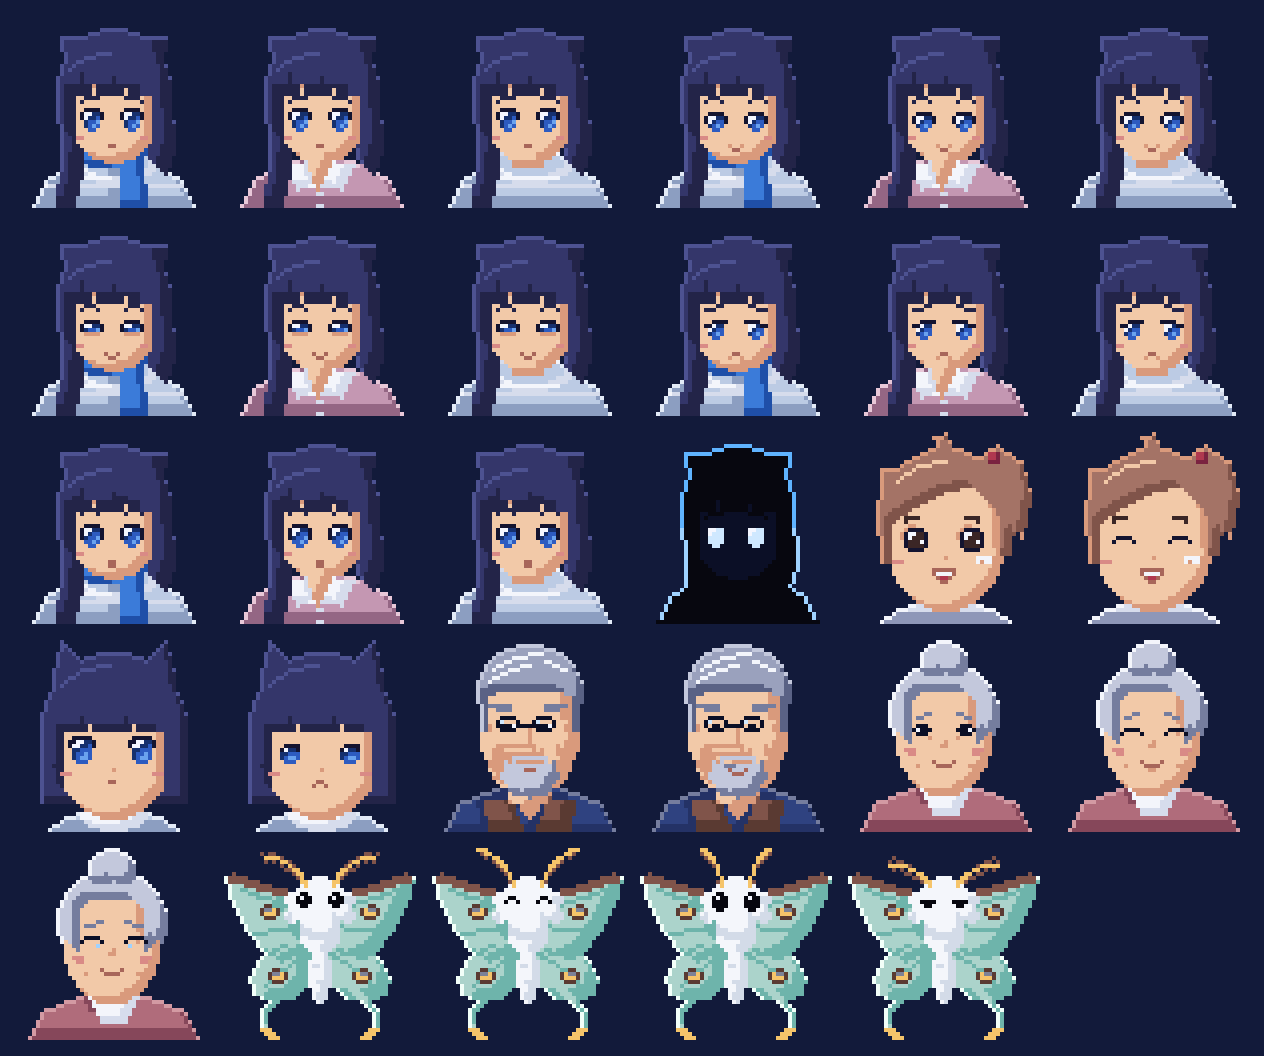
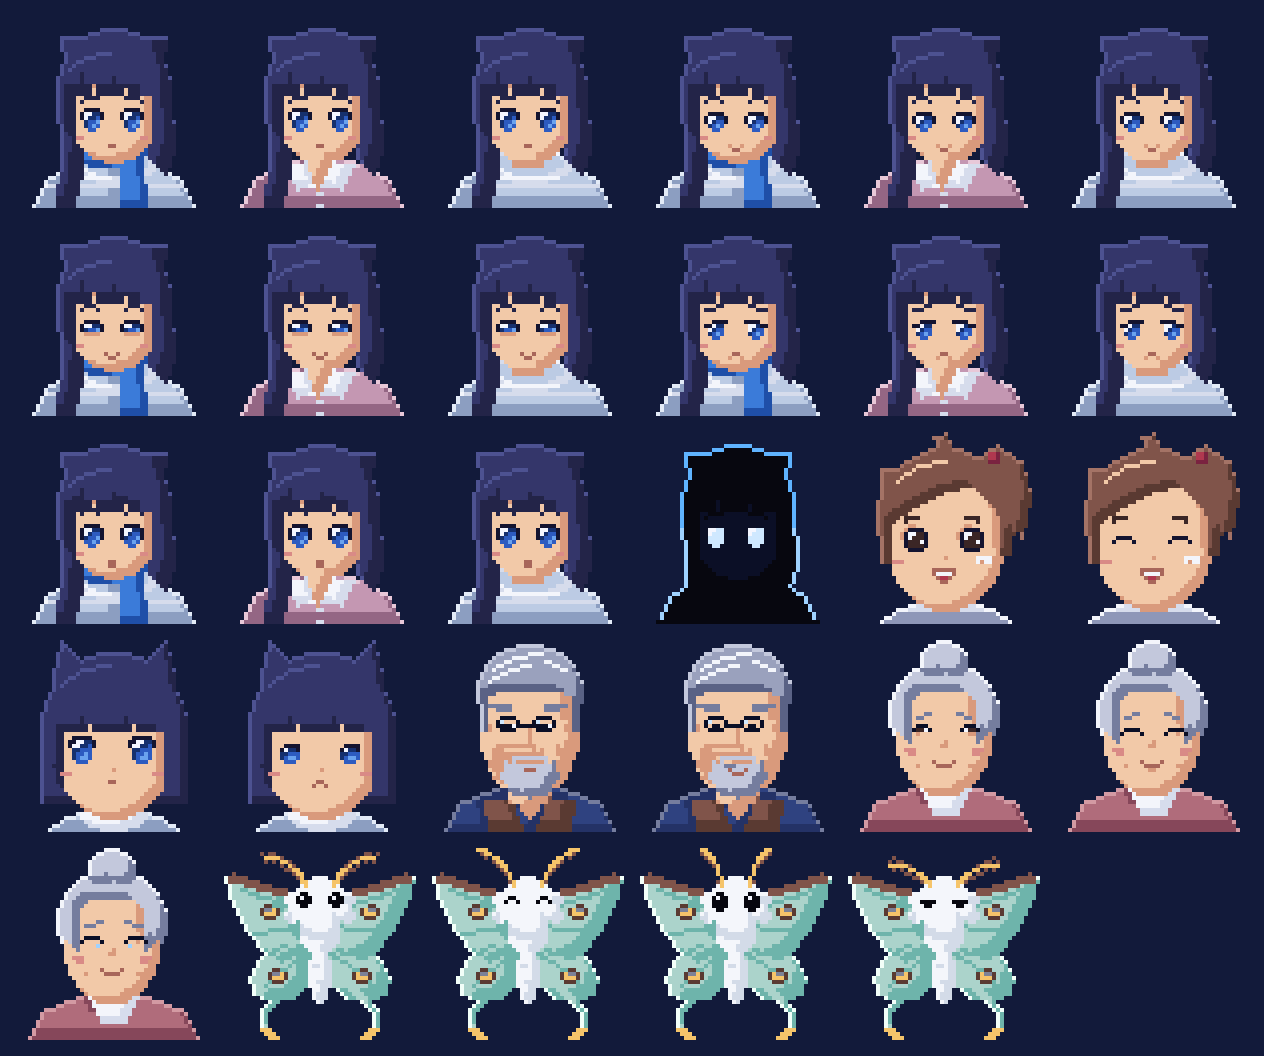
ハルのふつうの目をやさしく・8 歳のミオの横顔と左ほおを直す
- ハル（顔グラフィック）：黒目の大きい丸い目が怖かった（ユーザーの指摘）。小さな黒目にまぶたをかぶせ、目じりを下げた
- 8 歳のミオ（立ち絵）：横向きの頭が薄っぺらだったので、後ろ頭まで丸くし、ポニーテールは後ろ頭から下げた
- 左ほおが白く見えた：髪のふちの月明かりが肌色だったため。髪の色を栗色にして、ふちも茶色に。顔の横に髪を足した
- 確認：Unity でハルとの会話（会話ウィンドウごと）と回想を撮って確かめた。パレットの外の色は 0

Changed region(s): [[0.6788, 0.4062, 0.9873, 0.5312], [0.7405, 0.6875, 0.7714, 0.7188]]

diff --git a/Tools/Art/kids.py b/Tools/Art/kids.py
@@ -23,7 +23,7 @@ from palette import hex_to_rgba, RAMPS
 STYLE = Style("none", rim=True)
 MATS = {
     "H": Mat("hair2", "hair1", "hair3", group="Hh", d=2),
-    "M": Mat("brown3", "brown2", "skin1", group="Mg", d=2),
+    "M": Mat("brown2", "brown1", "brown3", group="Mg", d=2),   # ふちの月明かりも茶色に（肌色だと、ほおが白く見えた）
     "S": Mat("skin2", "skin1", group="SEeIrmOW"),
     "P": Mat("pj2", "pj1", "pj3", group="P", d=2),
     "T": Mat("tee2", "tee1", "tee3", group="T", d=2),
@@ -105,8 +105,8 @@ MIO_HEAD_DOWN = [
     ".MSOeSSSOeSM",
     ".MSOOSSSOOSM",
     ".MSrSSSSSrSM",
-    "..SSSmWWmSS.",   # 歯を見せて笑う
-    "..SSSSmmSSS.",
+    ".MSSSmWWmSSM",   # 歯を見せて笑う。顔の横の髪（ほおのふちが月明かりで白く光らないように）
+    "..MSSSmmSSM.",
     "...SSSSSSS..",
 ]
 MIO_BODY_DOWN = [
@@ -122,19 +122,19 @@ MIO_LEGS_STAND = [
     "............",
     "............",
 ]
-MIO_HEAD_SIDE = [
+MIO_HEAD_SIDE = [   # 後ろ頭まで丸く（ユーザーの指摘：横向きの頭が薄っぺら）。ポニーテールは後ろ頭から下がる
     "....M.......",
     "...MMMMMM...",
-    "..MggMMMMM..",
-    "MMMMMMMMMMM.",   # ポニーテールが後ろへなびく
-    "MMMMMMMMSSM.",
-    "M..MMMMSSSS.",
-    "...MMMMSSSS.",
-    "...MMMSSOeS.",
-    "...MMMSSOOS.",
-    "...MMMSrSSS.",
-    "...MMMSSmWS.",
-    "....MMSSSS..",
+    "..MggMMMMMM.",
+    ".RMMMMMMMMMM",   # 後ろ頭の赤い髪ゴム
+    "MMMMMMMMMSSS",
+    "MMMMMMMMSSSS",
+    "MMMMMMMMSOeS",
+    "MMMMMMMMSOOS",
+    "M.MMMMMSrSSS",
+    "..MMMMMSSmWS",
+    "..MMMMMSSSS.",
+    "...MMMSSSS..",
     ".....SSSS...",
 ]
 MIO_BODY_SIDE = [

diff --git a/Tools/Art/townsfolk.py b/Tools/Art/townsfolk.py
@@ -201,13 +201,14 @@ SHOULDERS = [(3, 47), (7, 40), (15, 37), (33, 37), (41, 40), (45, 47)]
 HARU_FACE_MATS = {
     "J": Mat("stone7", "stone5", "tee3", group="J", d=2),
     "H": Mat("stone7", "stone5", "tee3", d=2),
-    "S": Mat("skin2", "skin1", group="SEeLmnrq", d=2),
+    "S": Mat("skin2", "skin1", group="SEeILmnrq", d=2),
     "C": Mat("rose2", "rose1", "rose3", d=3),
     "w": Mat("tee3", "tee2", group="w", d=2),
 }
-HARU_FACE_DIRECT = {"E": "night1", "e": "moon3", "L": "moon1", "m": "skin0", "n": "skin1", "r": "blush0", "q": "stone5"}
+HARU_FACE_DIRECT = {"E": "night1", "I": "brown0", "e": "moon3", "L": "moon1", "m": "skin0", "n": "skin1", "r": "blush0", "q": "stone5"}
 HARU_EYES = {   # (左, 右)。やさしい目：目じりが下がり、黒目がちで、上のまぶたは丸い
-    "normal": ([".EEE.", "EeEEE", ".EEE.", "....n"], [".EEE.", "EEEeE", ".EEE.", "n...."]),
+    # v0.19：黒目の大きい丸い目は「怖い」（ユーザーの指摘）。小さな黒目にまぶたをかぶせ、目じりを下げる
+    "normal": ([".EEE..", "EIIeE.", ".n...."], ["..EEE.", ".EeIIE", "....n."]),
     "smile": (["......", ".EEEE.", "E....E", "......"], ["......", ".EEEE.", "E....E", "......"]),     # 目を細めて笑う
     "teary": (["......", ".EEEE.", "E....E", "....L."], ["......", ".EEEE.", "E....E", ".L...."]),   # 笑いながら涙
 }

diff --git a/Tools/Art/report/pixel_report.md b/Tools/Art/report/pixel_report.md
@@ -24,22 +24,22 @@
 | Characters/Grandma/grandma_sit_1.png | 17 |  | 0 | 0/0 | 4 | 8.2 | 0.0 |  | v0.16（輪郭線なし）：目・ほお・口・組んだ手は形の細部。光の向き（茶）：杖は体の右側（影の側）なので暗い色の 1 ドットの線 |
 | Characters/Keeper/keeper_idle_0.png | 19 |  | 0 | 3/13 | 6 | 3.4 | 0.0 | night | v0.16（輪郭線なし）：めがね・口ひげ・頭のつやは形の細部。光の向き：縁の月明かりは左の縁に縦に並び、影は右下にかたまるので、系統の重心では逆に見える（部品ごとに左上の光を確認済み） |
 | Characters/Keeper/keeper_idle_1.png | 19 |  | 0 | 4/17 | 5 | 3.4 | 0.0 | night | v0.16（輪郭線なし）：めがね・口ひげ・頭のつやは形の細部。光の向き：縁の月明かりは左の縁に縦に並び、影は右下にかたまるので、系統の重心では逆に見える（部品ごとに左上の光を確認済み） |
-| Characters/Kids/kid_mio_idle_down_0.png | 18 |  | 0 | 4/15 | 5 | 7.8 | 0.0 |  |  |
-| Characters/Kids/kid_mio_idle_down_1.png | 18 |  | 0 | 4/15 | 5 | 7.8 | 0.0 |  |  |
+| Characters/Kids/kid_mio_idle_down_0.png | 18 |  | 0 | 4/19 | 5 | 8.3 | 0.0 |  |  |
+| Characters/Kids/kid_mio_idle_down_1.png | 18 |  | 0 | 4/19 | 5 | 8.3 | 0.0 |  |  |
 | Characters/Kids/kid_mio_idle_down_shadow_0.png | 1 |  | 0 | 0/0 | 0 | 0.0 | 0.0 |  |  |
 | Characters/Kids/kid_mio_idle_down_shadow_1.png | 1 |  | 0 | 0/0 | 0 | 0.0 | 0.0 |  |  |
-| Characters/Kids/kid_mio_run_left_0.png | 18 |  | 0 | 1/6 | 2 | 9.2 | 0.0 | brown |  |
-| Characters/Kids/kid_mio_run_left_1.png | 18 |  | 0 | 1/6 | 2 | 10.0 | 0.0 | brown |  |
-| Characters/Kids/kid_mio_run_left_2.png | 17 |  | 0 | 1/6 | 3 | 10.7 | 0.0 | brown |  |
-| Characters/Kids/kid_mio_run_left_3.png | 18 |  | 0 | 1/6 | 2 | 10.7 | 0.0 | brown |  |
+| Characters/Kids/kid_mio_run_left_0.png | 18 |  | 0 | 1/4 | 0 | 8.0 | 0.0 | brown |  |
+| Characters/Kids/kid_mio_run_left_1.png | 18 |  | 0 | 1/4 | 0 | 8.8 | 0.0 | brown |  |
+| Characters/Kids/kid_mio_run_left_2.png | 17 |  | 0 | 1/4 | 1 | 9.4 | 0.0 | brown |  |
+| Characters/Kids/kid_mio_run_left_3.png | 18 |  | 0 | 1/4 | 0 | 9.4 | 0.0 | brown |  |
 | Characters/Kids/kid_mio_run_left_shadow_0.png | 1 |  | 2 | 0/0 | 0 | 0.0 | 0.0 |  |  |
 | Characters/Kids/kid_mio_run_left_shadow_1.png | 1 |  | 2 | 0/0 | 0 | 0.0 | 0.0 |  |  |
 | Characters/Kids/kid_mio_run_left_shadow_2.png | 1 |  | 0 | 0/0 | 0 | 0.0 | 0.0 |  |  |
 | Characters/Kids/kid_mio_run_left_shadow_3.png | 1 |  | 2 | 0/0 | 0 | 0.0 | 0.0 |  |  |
-| Characters/Kids/kid_mio_run_right_0.png | 18 |  | 0 | 0/0 | 1 | 7.0 | 0.0 | skin |  |
-| Characters/Kids/kid_mio_run_right_1.png | 18 |  | 0 | 0/0 | 1 | 7.9 | 0.0 | skin |  |
-| Characters/Kids/kid_mio_run_right_2.png | 17 |  | 0 | 0/0 | 1 | 6.4 | 0.0 | skin |  |
-| Characters/Kids/kid_mio_run_right_3.png | 17 |  | 0 | 0/0 | 1 | 6.4 | 0.0 | skin |  |
+| Characters/Kids/kid_mio_run_right_0.png | 18 |  | 0 | 1/5 | 0 | 6.2 | 0.0 |  |  |
+| Characters/Kids/kid_mio_run_right_1.png | 18 |  | 0 | 1/5 | 0 | 6.9 | 0.0 |  |  |
+| Characters/Kids/kid_mio_run_right_2.png | 17 |  | 0 | 1/5 | 0 | 5.6 | 0.0 |  |  |
+| Characters/Kids/kid_mio_run_right_3.png | 17 |  | 0 | 1/5 | 0 | 5.6 | 0.0 |  |  |
 | Characters/Kids/kid_mio_run_right_shadow_0.png | 1 |  | 2 | 0/0 | 0 | 0.0 | 0.0 |  |  |
 | Characters/Kids/kid_mio_run_right_shadow_1.png | 1 |  | 2 | 0/0 | 0 | 0.0 | 0.0 |  |  |
 | Characters/Kids/kid_mio_run_right_shadow_2.png | 1 |  | 0 | 0/0 | 0 | 0.0 | 0.0 |  |  |
@@ -452,13 +452,13 @@
 | Effects/fx_sparkle_1.png | 2 |  | 0 | 0/0 | 0 | 20.0 | 0.0 |  | 演出（光の輪・つぶ・波紋・小さな蛾）は点や輪そのものが絵で、陰影ではない |
 | Effects/fx_sparkle_2.png | 2 |  | 0 | 0/0 | 0 | 44.4 | 0.0 |  | 演出（光の輪・つぶ・波紋・小さな蛾）は点や輪そのものが絵で、陰影ではない |
 | Effects/fx_sparkle_3.png | 2 |  | 0 | 0/0 | 0 | 20.0 | 0.0 |  | 演出（光の輪・つぶ・波紋・小さな蛾）は点や輪そのものが絵で、陰影ではない |
-| Faces/face_grandma_normal.png | 13 |  | 0 | 2/6 | 0 | 1.0 | 0.0 |  | 目・口・めがね・口ひげなどの顔の細部（形の線）は陰影の帯ではない。v0.16 の顔は輪郭線が無いので、目やめがねのふちの紺が「輪郭の段差」として数えられることがある（ダブりではない） |
+| Faces/face_grandma_normal.png | 14 |  | 0 | 1/3 | 1 | 0.9 | 0.0 |  | 目・口・めがね・口ひげなどの顔の細部（形の線）は陰影の帯ではない。v0.16 の顔は輪郭線が無いので、目やめがねのふちの紺が「輪郭の段差」として数えられることがある（ダブりではない） |
 | Faces/face_grandma_smile.png | 12 |  | 0 | 1/3 | 1 | 0.7 | 0.0 |  | 目・口・めがね・口ひげなどの顔の細部（形の線）は陰影の帯ではない。v0.16 の顔は輪郭線が無いので、目やめがねのふちの紺が「輪郭の段差」として数えられることがある（ダブりではない） |
 | Faces/face_grandma_teary.png | 13 |  | 0 | 0/0 | 1 | 0.9 | 0.0 |  | 目・口・めがね・口ひげなどの顔の細部（形の線）は陰影の帯ではない。v0.16 の顔は輪郭線が無いので、目やめがねのふちの紺が「輪郭の段差」として数えられることがある（ダブりではない） |
 | Faces/face_keeper_normal.png | 15 |  | 2 | 1/3 | 1 | 1.2 | 0.0 | stone, night | 目・口・めがね・口ひげなどの顔の細部（形の線）は陰影の帯ではない。v0.16 の顔は輪郭線が無いので、目やめがねのふちの紺が「輪郭の段差」として数えられることがある（ダブりではない） |
 | Faces/face_keeper_smile.png | 14 |  | 2 | 2/6 | 1 | 1.1 | 0.0 | stone, night | 目・口・めがね・口ひげなどの顔の細部（形の線）は陰影の帯ではない。v0.16 の顔は輪郭線が無いので、目やめがねのふちの紺が「輪郭の段差」として数えられることがある（ダブりではない） |
-| Faces/face_mio_kid_normal.png | 14 |  | 0 | 7/34 | 0 | 0.6 | 0.0 | brown, red, tee | 目・口・めがね・口ひげなどの顔の細部（形の線）は陰影の帯ではない。v0.16 の顔は輪郭線が無いので、目やめがねのふちの紺が「輪郭の段差」として数えられることがある（ダブりではない） |
-| Faces/face_mio_kid_smile.png | 13 |  | 0 | 4/21 | 0 | 0.4 | 0.0 | brown, red, tee | 目・口・めがね・口ひげなどの顔の細部（形の線）は陰影の帯ではない。v0.16 の顔は輪郭線が無いので、目やめがねのふちの紺が「輪郭の段差」として数えられることがある（ダブりではない） |
+| Faces/face_mio_kid_normal.png | 15 |  | 0 | 7/34 | 0 | 0.6 | 0.0 | red, tee | 目・口・めがね・口ひげなどの顔の細部（形の線）は陰影の帯ではない。v0.16 の顔は輪郭線が無いので、目やめがねのふちの紺が「輪郭の段差」として数えられることがある（ダブりではない） |
+| Faces/face_mio_kid_smile.png | 14 |  | 0 | 4/21 | 0 | 0.4 | 0.0 | red, tee | 目・口・めがね・口ひげなどの顔の細部（形の線）は陰影の帯ではない。v0.16 の顔は輪郭線が無いので、目やめがねのふちの紺が「輪郭の段差」として数えられることがある（ダブりではない） |
 | Faces/face_nemu_happy.png | 10 |  | 0 | 12/73 | 1 | 0.7 | 0.0 | glow | 目・口・めがね・口ひげなどの顔の細部（形の線）は陰影の帯ではない。v0.16 の顔は輪郭線が無いので、目やめがねのふちの紺が「輪郭の段差」として数えられることがある（ダブりではない） ／ 目玉模様の縁・羽の筋・触角の羽毛・前羽の帯は模様。羽のふちの明るい線は光が透けた縁（月明かりの縁取り）で、輪郭の内側の帯ではない。光の向き：尾の縁の光が下にある（Characters/Nemu と同じ） |
 | Faces/face_nemu_normal.png | 10 |  | 4 | 12/73 | 1 | 1.4 | 0.0 | glow | 目・口・めがね・口ひげなどの顔の細部（形の線）は陰影の帯ではない。v0.16 の顔は輪郭線が無いので、目やめがねのふちの紺が「輪郭の段差」として数えられることがある（ダブりではない） ／ 目玉模様の縁・羽の筋・触角の羽毛・前羽の帯は模様。羽のふちの明るい線は光が透けた縁（月明かりの縁取り）で、輪郭の内側の帯ではない。光の向き：尾の縁の光が下にある（Characters/Nemu と同じ） |
 | Faces/face_nemu_sleepy.png | 10 |  | 0 | 12/73 | 1 | 0.8 | 0.0 | glow | 目・口・めがね・口ひげなどの顔の細部（形の線）は陰影の帯ではない。v0.16 の顔は輪郭線が無いので、目やめがねのふちの紺が「輪郭の段差」として数えられることがある（ダブりではない） ／ 目玉模様の縁・羽の筋・触角の羽毛・前羽の帯は模様。羽のふちの明るい線は光が透けた縁（月明かりの縁取り）で、輪郭の内側の帯ではない。光の向き：尾の縁の光が下にある（Characters/Nemu と同じ） |
